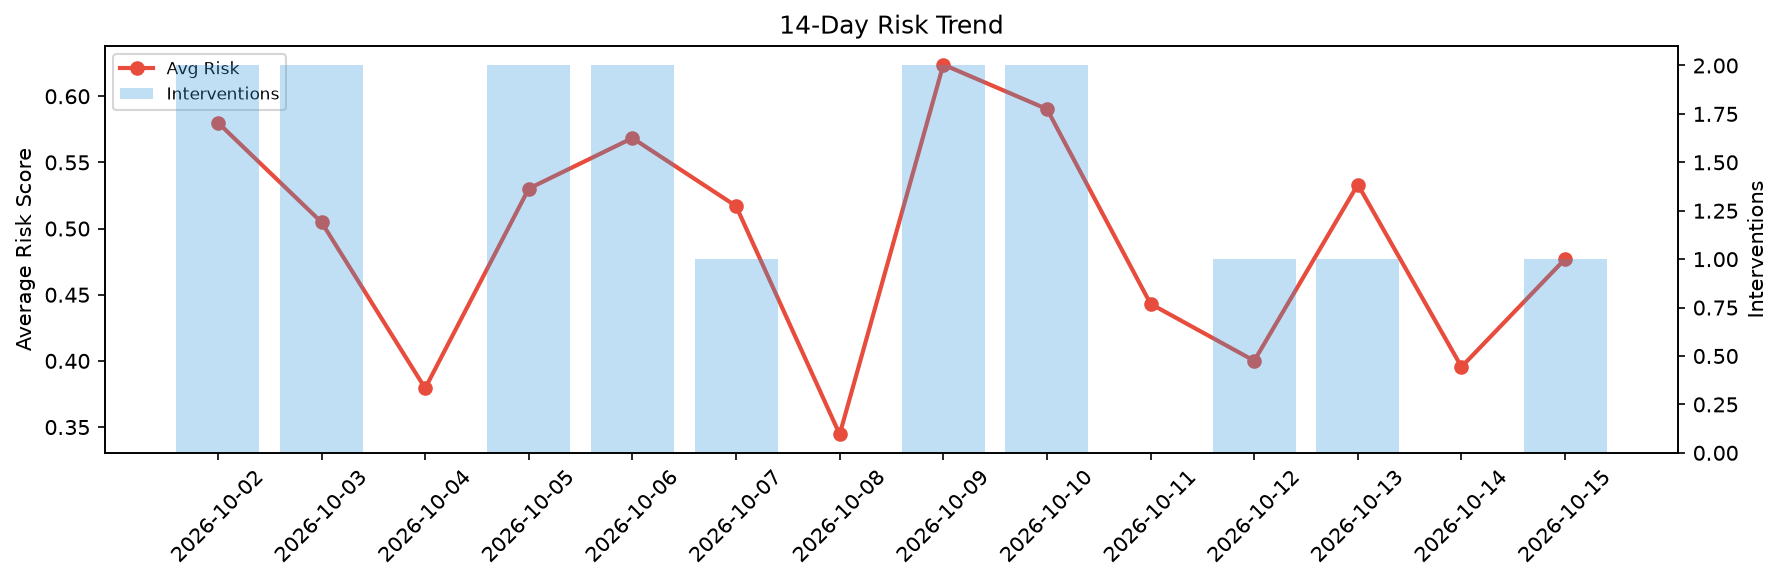
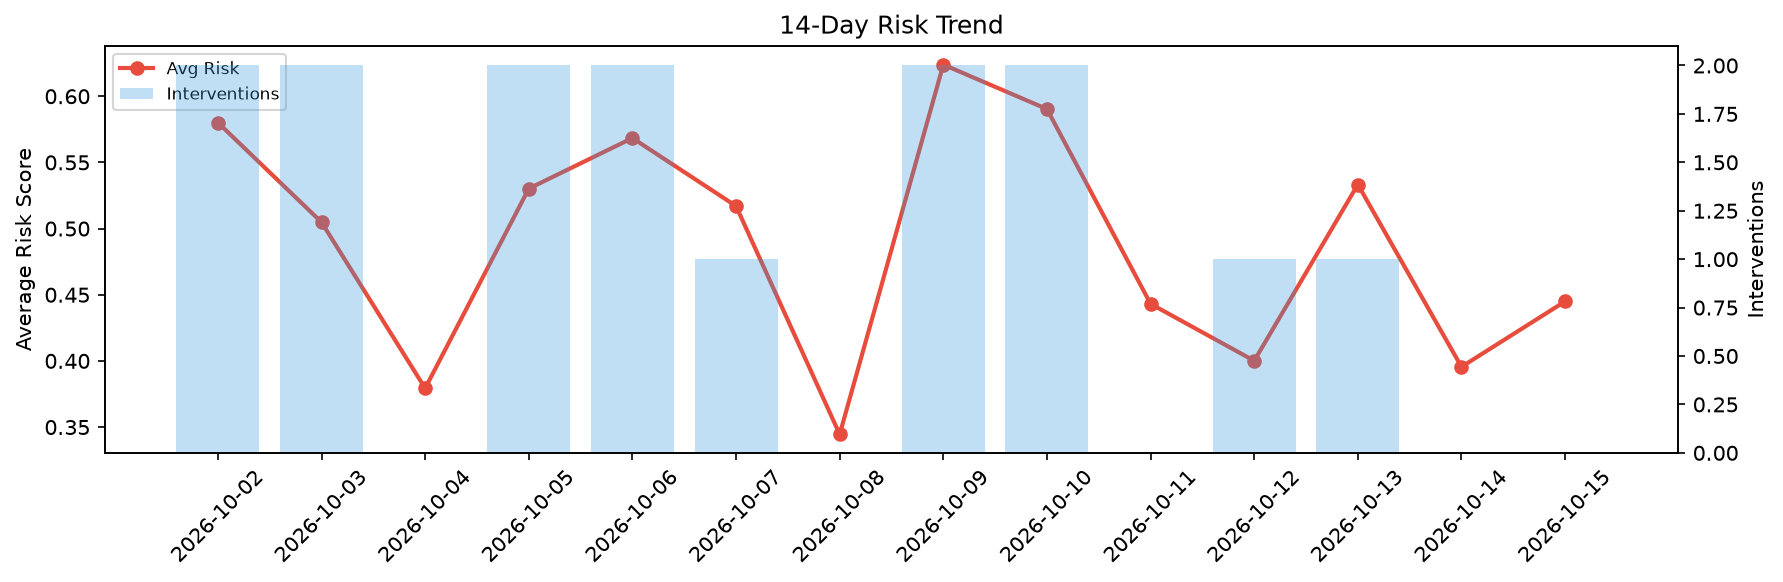
agent-improvement: daily cycle 2026-10-15T13:25

Changed region(s): [[0.802, 0.433, 0.9254, 0.8041]]

diff --git a/logs/2026-10-15.md b/logs/2026-10-15.md
@@ -1,6 +1,6 @@
 # Agent Improvement Report — 2026-10-15
 
-**Cycle ID:** `39677853` | **Avg Risk:** 0.477 | **Interventions:** 1/4
+**Cycle ID:** `2f267ebf` | **Avg Risk:** 0.445 | **Interventions:** 0/4
 
 ![Dashboard](2026-10-15_dashboard.png)
 
@@ -10,18 +10,18 @@
 
 | Domain | Risk Score | Decision | Alerts |
 |--------|-----------|----------|--------|
-| code_review | 0.4885 | monitor | complexity |
-| incident_response | 0.6579 | intervene | none |
-| data_pipeline | 0.5377 | monitor | freshness |
-| deployment | 0.224 | monitor | none |
+| code_review | 0.3526 | monitor | complexity |
+| incident_response | 0.5152 | monitor | none |
+| data_pipeline | 0.3984 | monitor | none |
+| deployment | 0.5137 | monitor | canary_error |
 
 ## Delta vs Yesterday
 
 | Domain | Today | Yesterday | Change |
 |--------|-------|-----------|--------|
-| code_review | 0.4885 | 0.4414 | 📈 10.7% |
-| incident_response | 0.6579 | 0.4733 | 📈 39.0% |
-| data_pipeline | 0.5377 | 0.2624 | 📈 104.9% |
-| deployment | 0.224 | 0.4049 | 📉 -44.7% |
+| code_review | 0.3526 | 0.4414 | 📉 -20.1% |
+| incident_response | 0.5152 | 0.4733 | 📈 8.9% |
+| data_pipeline | 0.3984 | 0.2624 | 📈 51.8% |
+| deployment | 0.5137 | 0.4049 | 📈 26.9% |
 
-**Refinement:** `{'adjustment': 'maintain', 'trend': 'improving', 'window': 4}`
+**Refinement:** `{'adjustment': 'tighten_thresholds', 'trend': 'degrading', 'window': 4}`
